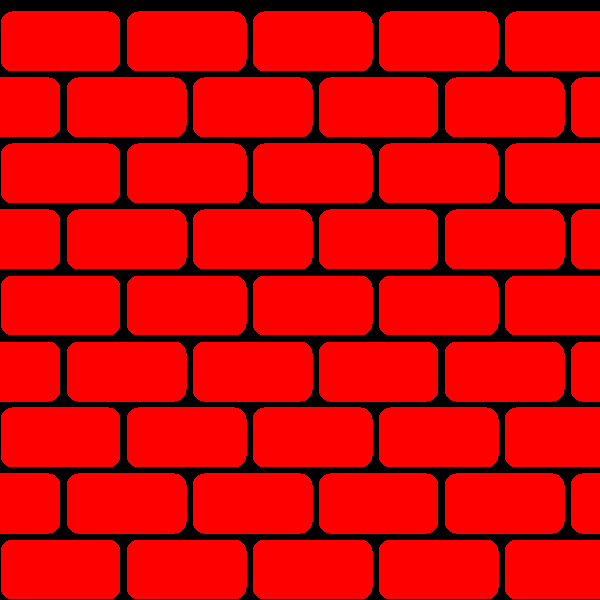
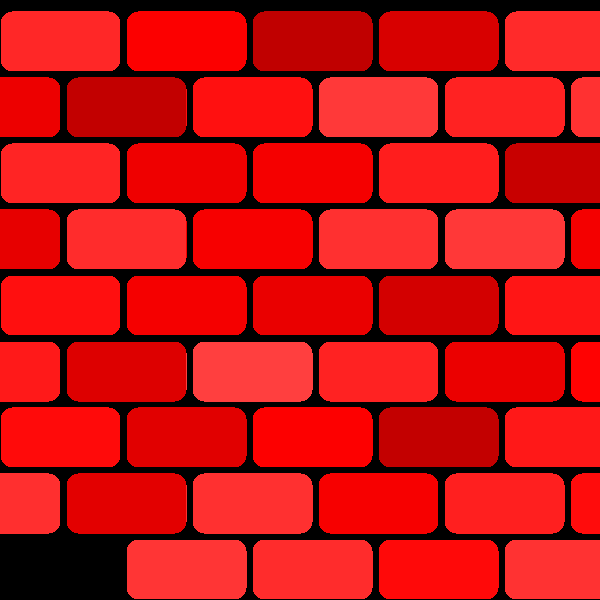
Fixes

diff --git a/forgedtiles/src/context.rs b/forgedtiles/src/context.rs
@@ -42,7 +42,7 @@ impl FTContext {
     }
 
     /// Get the distance to a face.
-    pub fn distance_to_face(&self, p: Vec3f, face_index: usize, tile_id: Vec2f) -> FTHitStruct {
+    pub fn distance_to_face(&self, mut p: Vec3f, face_index: usize, tile_id: Vec2f) -> FTHitStruct {
         let mut hit = FTHitStruct::default();
         if
         /*face_index >= self.faces.len() - 1 ||*/
@@ -66,7 +66,10 @@ impl FTContext {
             .values
             .get(FTValueRole::Thickness, vec![0.2])[0];
 
-        hit.face = vec3f(tile_id.x + face_length, face_height, face_thickness);
+        hit.face = vec3f(tile_id.x / face_length + 1.0, face_height, face_thickness);
+
+        // Scale the position to the face length
+        p.x /= face_length;
 
         fn op_extrusion_x(p: Vec3f, d: f32, h: f32) -> f32 {
             let w = Vec2f::new(d, abs(p.x) - h);
@@ -181,17 +184,16 @@ impl FTContext {
         let output = self.output.unwrap_or(self.nodes.len() - 1);
         let indices = &self.nodes[output].links;
 
-        // println!(
-        //     "output {:?} {} {} {}",
-        //     self.nodes[output].role, y, width, height
-        // );
         let w = width as f32;
         let h = height as f32;
 
-        let p = vec2f(x as f32 / w, 1.0 - y as f32 / h); //(2.0 * vec2f(x as f32, h - y as f32) - vec2f(w, h)) / h;
-                                                         //let p = (2.0 * vec2f(x as f32, h - y as f32) - vec2f(w, h)) / h;
+        let length = self.get_value_default(output, FTValueRole::Length, vec![1.0]);
+        let p = vec2f(x as f32 / length[0] / w, 1.0 - y as f32 / h);
 
-        let mut hit = FTHitStruct::default();
+        let mut hit = FTHitStruct {
+            face: vec3f(100.0, 100.0, 100.0),
+            ..Default::default()
+        };
 
         //let mut dist = FTHitStruct::default();
         //let mut hit_index: Option<usize> = None;
@@ -212,6 +214,7 @@ impl FTContext {
         }
     }
 
+    /// Render the output node into as 2D
     pub fn render(&self, width: usize, height: usize, buffer: &mut [u8]) {
         let w = width as f32;
         let h = height as f32;
@@ -288,6 +291,10 @@ impl FTContext {
                             color[0] = col[0];
                             color[1] = col[1];
                             color[2] = col[2];
+
+                            color[0] = col[0] + ((hit.pattern_hash) - 0.5) * 0.5;
+                            color[1] = col[1] + ((hit.pattern_hash) - 0.5) * 0.5;
+                            color[2] = col[2] + ((hit.pattern_hash) - 0.5) * 0.5;
                         } else {
                             color = vec3f(0.5, 0.5, 0.5);
                         }
@@ -602,78 +609,19 @@ impl FTContext {
                             dim.x + spacing,
                         );
 
-                        self.distance(content, r, pos, hit);
-                        if hit.distance < 0.0 {
-                            // hit.pattern_hash = crate::sdf::hash21(floor(
-                            //     (p - vec2f(dim.x / 2.0 - offset * dim.x, 0.0))
-                            //         / vec2f(dim.x + spacing, dim.y),
-                            // ));
-                            let u = (p - vec2f(offset, 0.0)) / vec2f(dim.x + spacing, dim.y);
-                            hit.pattern_hash = crate::sdf::hash21(floor(u));
-                            let id = (hit.pattern_hash * 10000.0).floor() as i32;
-                            hit.pattern_id = id % 10000;
+                        let u = (p - vec2f(offset * dim.x, pos.y - dim.y / 2.0))
+                            / vec2f(dim.x + spacing, dim.y + pos.y);
+                        let pattern_hash = crate::sdf::hash21(floor(u) + hit.seed);
+                        let pattern_id = ((pattern_hash * 10000.0).floor() as i32) % 10000;
+
+                        if pattern_id != 0 {
+                            self.distance(content, r, pos, hit);
+                            if hit.distance < 0.0 {
+                                hit.pattern_hash = pattern_hash;
+                                hit.pattern_id = pattern_id;
+                            }
                         }
-
-                        /*
-                        pos += vec2f(length / 2.0, height / 2.0);
-                        let mut iter = 0;
-
-                        loop {
-                            //if pos.x < p.x + length {
-                            self.distance(content, p, pos, hit);
-                            if hit.distance <= 0.0 {
-                                break;
-                            }
-                            //}
-                            // if iter == 3 {
-                            //     break;
-                            // }
-                            pos.x += length + 0.01;
-                            if pos.x > hit.face.x || pos.x - length / 2.0 > p.x {
-                                break;
-                            }
-                            iter += 1;
-                        }*/
                     }
-
-                    /*
-                    let length = self.values.get(FTValueRole::Length, vec![1.0])[0];
-                    let height = self.values.get(FTValueRole::Height, vec![1.0])[0];
-                    let cell = self.values.get(Cell, vec![3.0])[0];
-
-                    //let height = height / cell;
-
-                    //let pos = pos
-                    hit.distance = crate::sdf::sdf_box2d(p, pos, length / 2.0, height / 2.0, 0.0)
-                    */
-                    /*
-                    let ratio = self.values.get(Ratio, vec![3.0])[0];
-                    let round = self.values.get(Rounding, vec![0.0])[0];
-                    let rotation = self.values.get(Rotation, vec![1.0])[0] / 10.0;
-                    let gap = self.values.get(Gap, vec![1.0])[0] / 10.0;
-                    let cell = self.values.get(Cell, vec![3.0])[0];
-
-                    let mut u = p - pos + 10.0; // + hit.tile_id; // + vec2f(0.0, 0.5);
-
-                    let w = vec2f(ratio, 1.0);
-                    u *= vec2f(cell, cell) / w;
-
-                    u.x += 0.5 * u.y.floor() % 2.0;
-
-                    // let id = hash21(floor(u));
-                    let hash = crate::sdf::hash21(floor(u));
-
-                    let id = (hash * 10000.0).floor() as i32;
-                    let id = id % 10000;
-
-                    let mut p = frac(u);
-                    p = crate::sdf::rot((hash - 0.5) * rotation) * (p - 0.5);
-
-                    hit.distance =
-                        crate::sdf::sdf_box2d(p, Vec2f::zero(), 0.5 - gap, 0.5 - gap, round);
-                    hit.pattern_id = id;
-                    hit.pattern_hash = hash;
-                    */
                 }
                 Stack => {
                     if !self.nodes[index].links.is_empty() {
@@ -682,8 +630,12 @@ impl FTContext {
 
                         pos = Vec2f::zero();
                         let mut counter = 0;
+                        // let mut rng = rand::thread_rng();
+                        // hit.seed = rng.gen();
 
                         loop {
+                            hit.seed = crate::sdf::hash21(pos);
+                            hit.seed_id = ((hit.seed * 10000.0).floor() as i32) % 10000;
                             let content = self.nodes[index].links
                                 [counter % self.nodes[index].links.len()]
                                 as usize;

diff --git a/forgedtiles/src/hit.rs b/forgedtiles/src/hit.rs
@@ -14,6 +14,9 @@ pub struct FTHitStruct {
     pub face: Vec3f,
 
     pub tile_id: Vec2f,
+
+    pub seed: f32,
+    pub seed_id: i32,
 }
 
 impl Default for FTHitStruct {
@@ -37,6 +40,8 @@ impl FTHitStruct {
 
             tile_id: Vec2f::zero(),
 
+            seed: 0.0,
+            seed_id: 0,
         }
     }
 }
